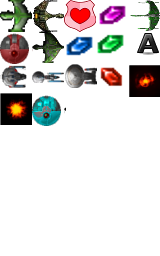
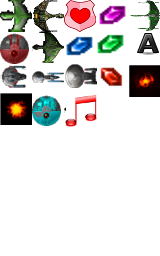
Music for the game integrated into tiles and objects system Issue Number:
Description:
    New features:

Benchmarks:
    Developed with the following benchmarks:

Todo:

Changed region(s): [[0.4062, 0.3438, 0.625, 0.5]]

diff --git a/Resources/maps/objects.tsx b/Resources/maps/objects.tsx
@@ -92,4 +92,9 @@
    <property name="object_type" value="FireMineBlock"/>
   </properties>
  </tile>
+  <tile id="17">
+  <properties>
+   <property name="object_type" value="MusicObject"/>
+  </properties>
+ </tile>
 </tileset>
